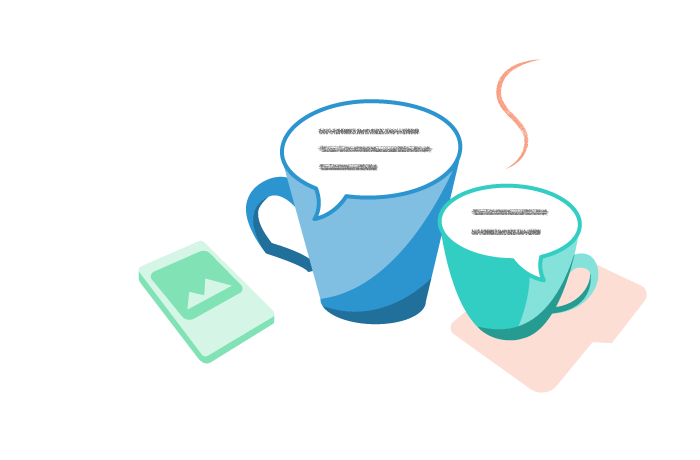
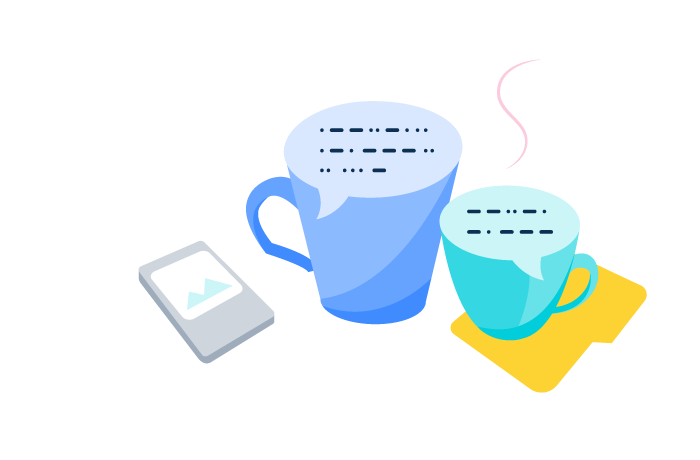
style: small branding fixes (#278)
* style: replace zerochats, zerofiles illustrations

* style: zerochats plus button colour fixed

* style: maintenance warning icon colour

* chore: [branch ch5985]

diff --git a/src/ui/chat/ZeroChats.scss b/src/ui/chat/ZeroChats.scss
@@ -107,6 +107,7 @@ $zero-chats-break: 984px;
       width: 40px;
       margin-left: -56px; // 40px + margin-default
       margin-right: $margin-default;
+      border-color: $peerio-blue;
       border-radius: 6px;
       border-width: 3px;
 
@@ -115,6 +116,7 @@ $zero-chats-break: 984px;
         width: 40px;
         line-height: 40px;
         font-size: 40px;
+        color: $peerio-blue;
       }
     }
 

diff --git a/src/ui/shared-components/MaintenanceWarning.scss b/src/ui/shared-components/MaintenanceWarning.scss
@@ -19,9 +19,7 @@
     height: 24px;
     width: 24px;
     margin-left: auto;
-    background-position: center;
-    background-repeat: no-repeat;
-    background-size: cover;
+    color: $color-error;
   }
 }
 
